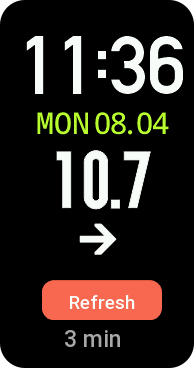
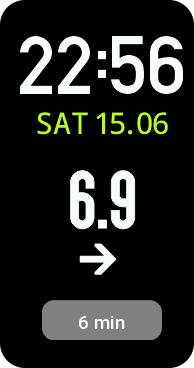
minor fixes

diff --git a/watchface/watchface/band7/index.js b/watchface/watchface/band7/index.js
@@ -15,7 +15,7 @@ import { str2json } from "../../shared/data";
 
 const logger = getApp()._options.globalData.logger
 
-let bgValTextImgWidget, bgValTimeTextWidget, bgTrendImageWidget
+let bgValTextImgWidget, bgTrendImageWidget, bgAdditionalTextButtonWidget
 let timerLastUpdated, currTime;
 
 function mergeStyles(styleObj1, styleObj2, styleObj3 = {}) {
@@ -90,21 +90,19 @@ WatchFace({
     //     }, interval);
     // }
 
-    bgValTimeTextWidget = hmUI.createWidget(hmUI.widget.TEXT, BG_TIME_TEXT);
-
-    hmUI.createWidget(hmUI.widget.BUTTON, {
+    bgAdditionalTextButtonWidget = hmUI.createWidget(hmUI.widget.BUTTON, {
       x: 42,
-      y: 280,
+      y: 300,
       w: 120,
       h: 40,
       radius: 12,
-      normal_color: 0xfc6950,
-      press_color: 0xfeb4a8,
-      text: 'Refresh',
+      normal_color: 0x808080,
+      press_color: 0xB0B0B0,
+      text: '...',
       show_level: hmUI.show_level.ONLY_NORMAL,
       click_func: () => {
         logger.log('Button pressed')
-        hmApp.startApp({ appid: NIGHTSCOUT_APP_ID, url: 'page/wf-page', param: 'update' })
+        hmApp.startApp({ appid: NIGHTSCOUT_APP_ID, url: 'page/index', param: 'main' })
       }
     })
     bgTrendImageWidget = hmUI.createWidget(hmUI.widget.IMG, BG_TREND_IMAGE);
@@ -140,11 +138,10 @@ WatchFace({
         console.error('Invalid or missing bg.time value')
       }
 
-      bgValTimeTextWidget.setProperty(hmUI.prop.VISIBLE, true)
-      bgValTimeTextWidget.setProperty(hmUI.prop.TEXT, bgTimeInMinutes.toString() + ' min')
+      bgAdditionalTextButtonWidget.setProperty(hmUI.prop.VISIBLE, false)
+      bgAdditionalTextButtonWidget.setProperty(hmUI.prop.TEXT, bgTimeInMinutes.toString() + ' min')
+      bgAdditionalTextButtonWidget.setProperty(hmUI.prop.VISIBLE, true)
 
-      // hmUI.deleteWidget(bgTrendImageWidget)
-      // bgTrendImageWidget = hmUI.createWidget(hmUI.widget.IMG, BG_TREND_IMAGE);
       bgTrendImageWidget.setProperty(hmUI.prop.VISIBLE, false)
       bgTrendImageWidget.setProperty(hmUI.prop.SRC, this.getArrowResource(dataInfo.bg.trend));
       bgTrendImageWidget.setProperty(hmUI.prop.VISIBLE, true)
@@ -155,8 +152,9 @@ WatchFace({
 
       bgTrendImageWidget.setProperty(hmUI.prop.SRC, "None");
 
-      bgValTimeTextWidget.setProperty(hmUI.prop.VISIBLE, true)
-      bgValTimeTextWidget.setProperty(hmUI.prop.TEXT, dataInfo.message)
+      bgAdditionalTextButtonWidget.setProperty(hmUI.prop.VISIBLE, false)
+      bgAdditionalTextButtonWidget.setProperty(hmUI.prop.TEXT, dataInfo.message)
+      bgAdditionalTextButtonWidget.setProperty(hmUI.prop.VISIBLE, true)      
     }
   },
 

diff --git a/app/page/index.js b/app/page/index.js
@@ -45,7 +45,6 @@ var nightscout = null;
 const GoBackType = {NONE: 'none', GO_BACK: 'go_back', HIDE_PAGE: 'hide_page', HIDE: 'hide'};
 const PagesType = {
     MAIN: 'main',
-    UPDATE_LOCAL: 'update_local',
 };
 const FetchMode = {DISPLAY: 'display', HIDDEN: 'hidden'};
 
@@ -239,8 +238,11 @@ class Watchdrip {
                 return;
             }
 
+            hmFS.SysProSetChars('fs_last_info', JSON.stringify(data))
+
             let dataInfo = data;
             this.lastInfoUpdate = this.saveInfo(data);
+            
             data = null;
             this.nightscoutData.setData(dataInfo);
             this.nightscoutData.updateTimeDiff();
@@ -309,8 +311,15 @@ class Watchdrip {
 
     updateTimesWidget() {
         let bgObj = this.nightscoutData.getBg();
+        if (!bgObj.time) {
+            return;
+        }
+        const currentTime = Date.now(); // Current time in milliseconds
+        const differenceInMillis = currentTime - bgObj.time; // Difference in milliseconds
+        // Convert milliseconds to minutes
+        let bgTimeInMinutes = Math.round(differenceInMillis / 60000);
         this.bgValTimeTextWidget.setProperty(hmUI.prop.MORE, {
-            text: this.nightscoutData.getTimeAgo(bgObj.time),
+            text: bgTimeInMinutes + 'min',
         });
     }
 

diff --git a/watchface/watchface/band7/styles.js b/watchface/watchface/band7/styles.js
@@ -144,7 +144,7 @@ export const BG_VALUE_NO_DATA_TEXT = {
 
 export const BG_VALUE_TEXT_IMG = {
     x: px(46),
-    y: px(150),
+    y: px(170),
     w: px(113),
     align_h: hmUI.align.CENTER_H,
     dot_image: img('bgNum/d.png'),
@@ -156,7 +156,7 @@ export const BG_VALUE_TEXT_IMG = {
 
 export const BG_VALUE_TEXT_IMG_AOD = {
     x: px(46),
-    y: px(164),
+    y: px(184),
     w: px(113),
     dot_image: img('bigNumAOD/d.png'),
     font_array: bigNumAODArr,
@@ -192,7 +192,7 @@ export const BG_DELTA_TEXT = {
 export const BG_TREND_IMAGE = {
     src: 'nightscout/arrows/None.png',
     x: px(75),
-    y: px(218),
+    y: px(238),
     w: px(60),
     h: px(41),
     show_level: hmUI.show_level.ONLY_NORMAL
